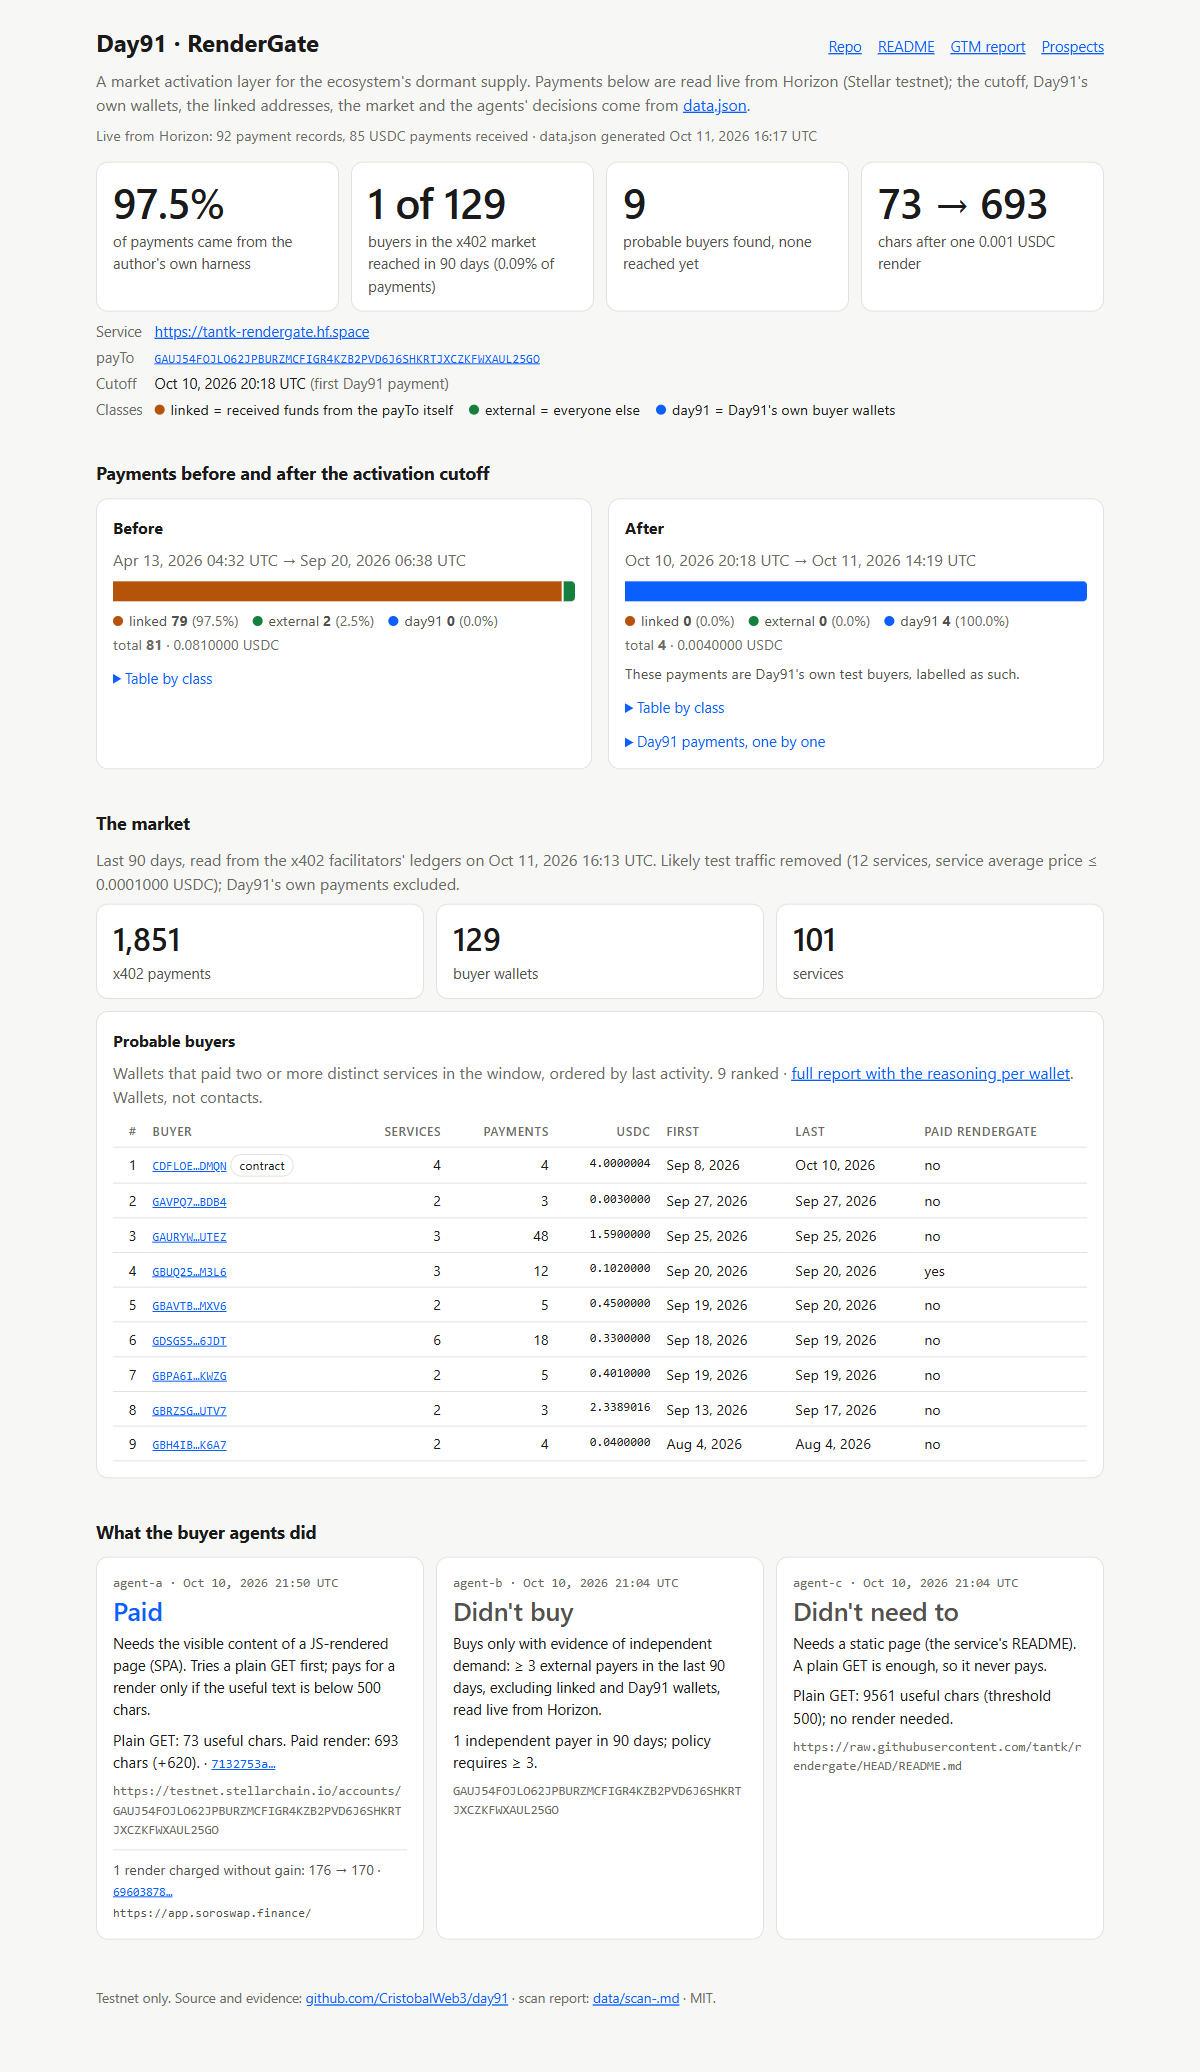
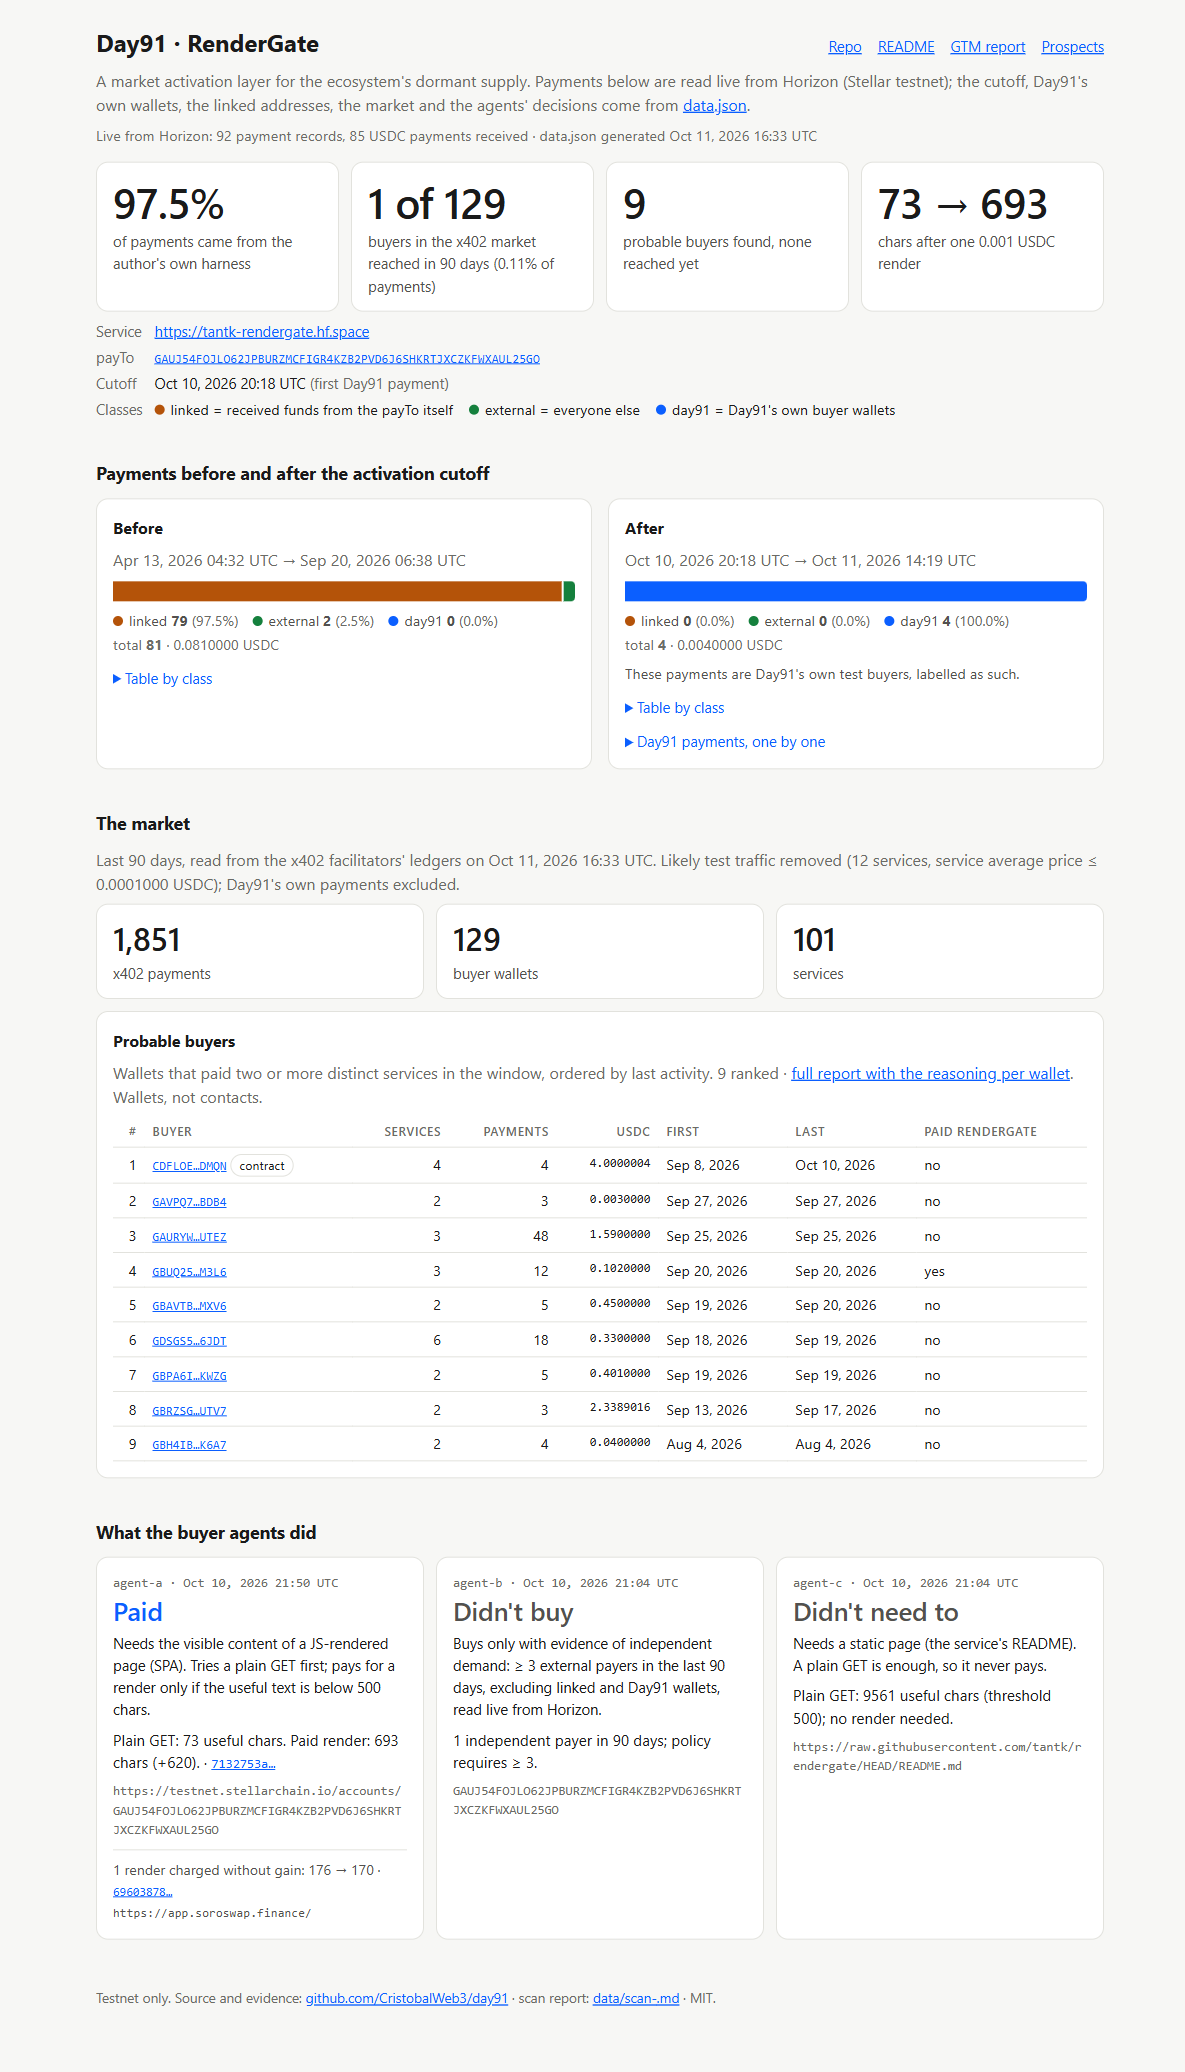
Capturas del funnel regeneradas con el hero actual (0.11 %); captura de escritorio en el README

diff --git a/README.md b/README.md
@@ -9,6 +9,8 @@ the result on-chain, before and after.
 Built for the *Find Your Way* hackathon (Stellar Passport, October 2026). Everything runs on **Stellar testnet** only.
 
 - Funnel (live from Horizon): **https://cristobalweb3.github.io/day91/**
+
+  ![Day91 funnel: key figures, payments before and after the cutoff by payer class, the x402 market and the agents' decisions](docs/screenshots/funnel-desktop.png)
 - Target service: [RenderGate](https://github.com/tantk/rendergate), a pay-per-render headless browser behind x402 (3rd place, Stellar Hacks: Agents)
 - Report for the RenderGate author: [`reasoning/rendergate-gtm.md`](reasoning/rendergate-gtm.md)
 
